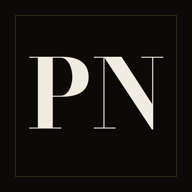
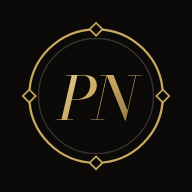
feat: a house mark and letterhead lockup in place of the plain name
The letterhead showed the name in Bodoni and nothing else, with the PN
monogram living only in the favicon. The mark is now one object:

- Emblem (ui/BrandMark.tsx): PN in foil italic inside a double gold ring
  with four lozenges at the cardinal points, the small sibling of the About
  seal. The outer ring draws itself in on arrival; on hover or focus the
  lozenges turn an eighth of a turn and the name takes the foil sweep.
- BrandLockup: the emblem, a gold hairline, and the name in spaced Didone
  capitals over a small gold "AI ARCHITECT" descriptor. On phones it
  drops to the emblem and the name, and fits beside Index down to 320px.
- The 512 and 192 app icons and the Next.js icon route are rendered from
  the same Emblem by scripts/brand/icons.mjs. The 16 and 32 favicons stay
  the bare bold PN, which is what reads at tab size.

Claude-Session: https://claude.ai/code/session_01H1edAU7Jd55YS2Xtd13XP9

Changed region(s): [[0.0625, 0.0625, 0.9375, 0.9375]]

diff --git a/src/components/ui/BrandMark.tsx b/src/components/ui/BrandMark.tsx
@@ -1,0 +1,100 @@
+"use client";
+
+import { InViewClass } from "../Reveal";
+import { cn } from "@/lib/utils";
+
+/**
+ * The house mark: PN struck in foil italic inside a double gold ring, with
+ * four lozenges at the cardinal points. It is the small sibling of the About
+ * seal and the drawing the app icons are rendered from
+ * (scripts/brand/monogram.html), so the mark is one object wherever it
+ * appears.
+ *
+ * The outer ring draws itself in once on arrival. Inside a `group`, hovering
+ * turns the lozenges an eighth of a turn, the way a bezel clicks round.
+ *
+ * Fixed gradient id: the mark is rendered once per page, in the letterhead.
+ */
+export function Emblem({ className }: { className?: string }) {
+  const foilId = "brand-foil";
+  return (
+    <InViewClass as="span" amount={0} className={cn("block", className)}>
+      <svg viewBox="0 0 100 100" className="block h-full w-full overflow-visible" aria-hidden>
+        <defs>
+          <linearGradient id={foilId} x1="0" y1="0" x2="1" y2="1">
+            <stop offset="0%" className="[stop-color:var(--color-aurum-100)]" />
+            <stop offset="45%" className="[stop-color:var(--color-aurum-300)]" />
+            <stop offset="100%" className="[stop-color:var(--color-aurum-500)]" />
+          </linearGradient>
+        </defs>
+
+        <circle
+          cx={50}
+          cy={50}
+          r={47}
+          fill="none"
+          strokeWidth={1.6}
+          pathLength={1}
+          className="draw-path stroke-aurum-300"
+          transform="rotate(-90 50 50)"
+        />
+        <circle cx={50} cy={50} r={40.5} fill="none" strokeWidth={1} className="stroke-hairline-strong" />
+
+        <g className="transition-[rotate] duration-700 ease-heavy [transform-box:view-box] [transform-origin:50%_50%] group-hover:rotate-45 group-focus-visible:rotate-45">
+          {[
+            [50, 3],
+            [97, 50],
+            [50, 97],
+            [3, 50],
+          ].map(([x, y]) => (
+            <rect
+              key={`${x}-${y}`}
+              x={x - 3.2}
+              y={y - 3.2}
+              width={6.4}
+              height={6.4}
+              transform={`rotate(45 ${x} ${y})`}
+              className="fill-obsidian-0 stroke-aurum-300"
+              strokeWidth={1.2}
+            />
+          ))}
+        </g>
+
+        <text
+          x={50}
+          y={52}
+          textAnchor="middle"
+          dominantBaseline="central"
+          fill={`url(#${foilId})`}
+          className="font-display italic"
+          fontSize={42}
+          letterSpacing="-0.04em"
+        >
+          PN
+        </text>
+      </svg>
+    </InViewClass>
+  );
+}
+
+/**
+ * The letterhead lockup: the emblem, a gold hairline, and the name set in
+ * spaced Didone capitals over a small mono descriptor, the arrangement a
+ * maison uses on its letterhead. The name takes the foil sweep on hover.
+ */
+export function BrandLockup() {
+  return (
+    <span className="flex items-center gap-3 sm:gap-4">
+      <Emblem className="size-9 shrink-0 sm:size-10" />
+      <span aria-hidden className="hidden h-8 w-px bg-hairline-gold sm:block" />
+      <span className="flex flex-col gap-[7px]">
+        <span className="foil whitespace-nowrap font-display text-[12px] uppercase leading-none tracking-[0.16em] min-[380px]:text-[13px] sm:text-[15px] sm:tracking-[0.2em]">
+          Preetham Nimmagadda
+        </span>
+        <span className="caption hidden whitespace-nowrap text-[9px] tracking-[0.34em] text-aurum-300 sm:block">
+          AI Architect
+        </span>
+      </span>
+    </span>
+  );
+}

diff --git a/src/components/Navbar.tsx b/src/components/Navbar.tsx
@@ -4,6 +4,7 @@ import { useCallback, useEffect, useRef, useState } from "react";
 import type { MouseEvent } from "react";
 import { AnimatePresence, EASE_HEAVY, EASE_SETTLE, motion } from "@/lib/motion";
 import { TextButton } from "@/components/ui/TextButton";
+import { BrandLockup } from "@/components/ui/BrandMark";
 import { useReducedMotion } from "@/hooks/use-reduced-motion";
 import { CHAPTERS, CHAPTER_COUNT, type Chapter } from "@/lib/chapters";
 import { cn, smoothScrollTo } from "@/lib/utils";
@@ -442,9 +443,10 @@ export default function Navbar() {
           <a
             href="#home"
             onClick={(e) => goTo(e, "#home")}
-            className="foil shrink-0 whitespace-nowrap font-display font-medium text-[20px] leading-none sm:text-[22px]"
+            aria-label="Preetham Nimmagadda, AI architect: back to the top"
+            className="group shrink-0"
           >
-            Preetham Nimmagadda
+            <BrandLockup />
           </a>
 
           <ChapterIndicator

diff --git a/scripts/brand/README.md b/scripts/brand/README.md
@@ -1,7 +1,24 @@
 # Brand marks
 
-`monogram.html` is the source of truth for the PN mark. It draws itself to
-whatever square canvas it is given, so one template covers every size.
+The house mark is the `Emblem` in `src/components/ui/BrandMark.tsx`: PN in
+foil italic inside a double gold ring with four lozenges, the small sibling of
+the About seal. The letterhead shows it as a lockup with the name in spaced
+Didone capitals. The app icons are rendered from that same component by
+`icons.mjs`:
+
+| Output | Size | Used as |
+| --- | --- | --- |
+| `public/icon-512x512.png` | 512 | PWA manifest, install prompts |
+| `src/app/icon.png` | 512 | Next.js app icon route |
+| `public/icon-192x192.png` | 192 | PWA manifest, iOS home screen |
+
+Run `node scripts/brand/icons.mjs` against a served build after changing the
+emblem.
+
+## Favicons
+
+`monogram.html` remains the source for the two favicons only. It draws itself
+to whatever square canvas it is given, so one template covers every size.
 
 Rasterise with any headless browser at a square viewport and `deviceScaleFactor: 1`:
 
@@ -9,9 +26,9 @@ Rasterise with any headless browser at a square viewport and `deviceScaleFactor:
 | --- | --- | --- |
 | `public/favicon-16.png` | 16 | browser tab, small |
 | `public/favicon-32.png` | 32 | browser tab, retina and bookmarks |
-| `public/icon-192x192.png` | 192 | PWA manifest, iOS home screen |
-| `public/icon-512x512.png` | 512 | PWA manifest, install prompts |
-| `src/app/icon.png` | 512 | Next.js app icon route |
+
+At tab sizes the ring and an italic Didone fall below a device pixel, so the
+favicons stay the bare bold upright PN.
 
 The mark is set at weight 700 at every size, and carries the gold plate frame
 only from 64px up. Both are deliberate. At 16 to 32 device pixels a Didone's
@@ -19,8 +36,8 @@ hairlines fall below one pixel, which is how an earlier weight 400 mark lost
 its N in the tab; and at those sizes an inset rule is the same order of
 magnitude as the letters, so it crowds the mark rather than framing it. The
 frame therefore lives behind a `@media (min-width: 64px)` guard in the
-template: the two favicons are the bare mark, the two PWA icons and the app
-icon route carry the frame in `hairline-gold`, the same rule as the OG card.
+template, which now matters only if the template is ever used above 64px
+again; the larger icons come from the emblem.
 
 Both templates pin `opsz` to 22 the way the site does, rather than letting
 `font-optical-sizing: auto` track it to the type size. That is the same fix

diff --git a/CLAUDE.md b/CLAUDE.md
@@ -48,6 +48,7 @@ No test framework is configured.
 - **Plate lift reveals**: `SectionHeading` and `InViewClass` (src/components/Reveal.tsx) add `.in-view` via IntersectionObserver to drive the `.line-rise`, `.rule-draw` and `.draw-path` CSS
 - **Chapter registry**: `src/lib/chapters.ts` is the single source for section ids, chapter numerals and labels. The letterhead's running chapter indicator, the Index overlay and `SectionHeading chapter="<id>"` all read it; the WebGL scene calibrates its chapter map against the same section ids at runtime (`useChapterCalibration` in `scene-store.ts`). Add or reorder a section there, not in each consumer
 - **Positioning**: the site presents Preetham as an AI architect. Every figure and claim must already be on the record (experience, projects, rankings); new copy reframes, it never invents metrics
+- **Brand mark**: `Emblem` and `BrandLockup` in `src/components/ui/BrandMark.tsx` are the logo (the letterhead lockup, and the drawing the app icons are rendered from by `scripts/brand/icons.mjs`). Change the mark there, then re-render the icons
 - **Buttons**: `TextButton` primary fills with gold from the foot of its frame on hover and leans a few pixels toward the mouse (its own pointer listener, off for touch, reduced motion, full-width and disabled buttons). Use it rather than styling a new CTA
 - **Local time**: `useLocalTime` (src/hooks) gives Hyderabad's time as HH:MM after mount; the hero cover row and the Contact address both read it
 - **Custom cursor**: `Cursor.tsx` (fine pointers only; off under reduced motion, forced colours, touch, and over text fields). Give an element `data-cursor="Word"` to have the cursor ring show that word over it. Trailing elements use `useFollowPointer` (src/hooks), which reads the shared pointer store; never add a window pointer listener
